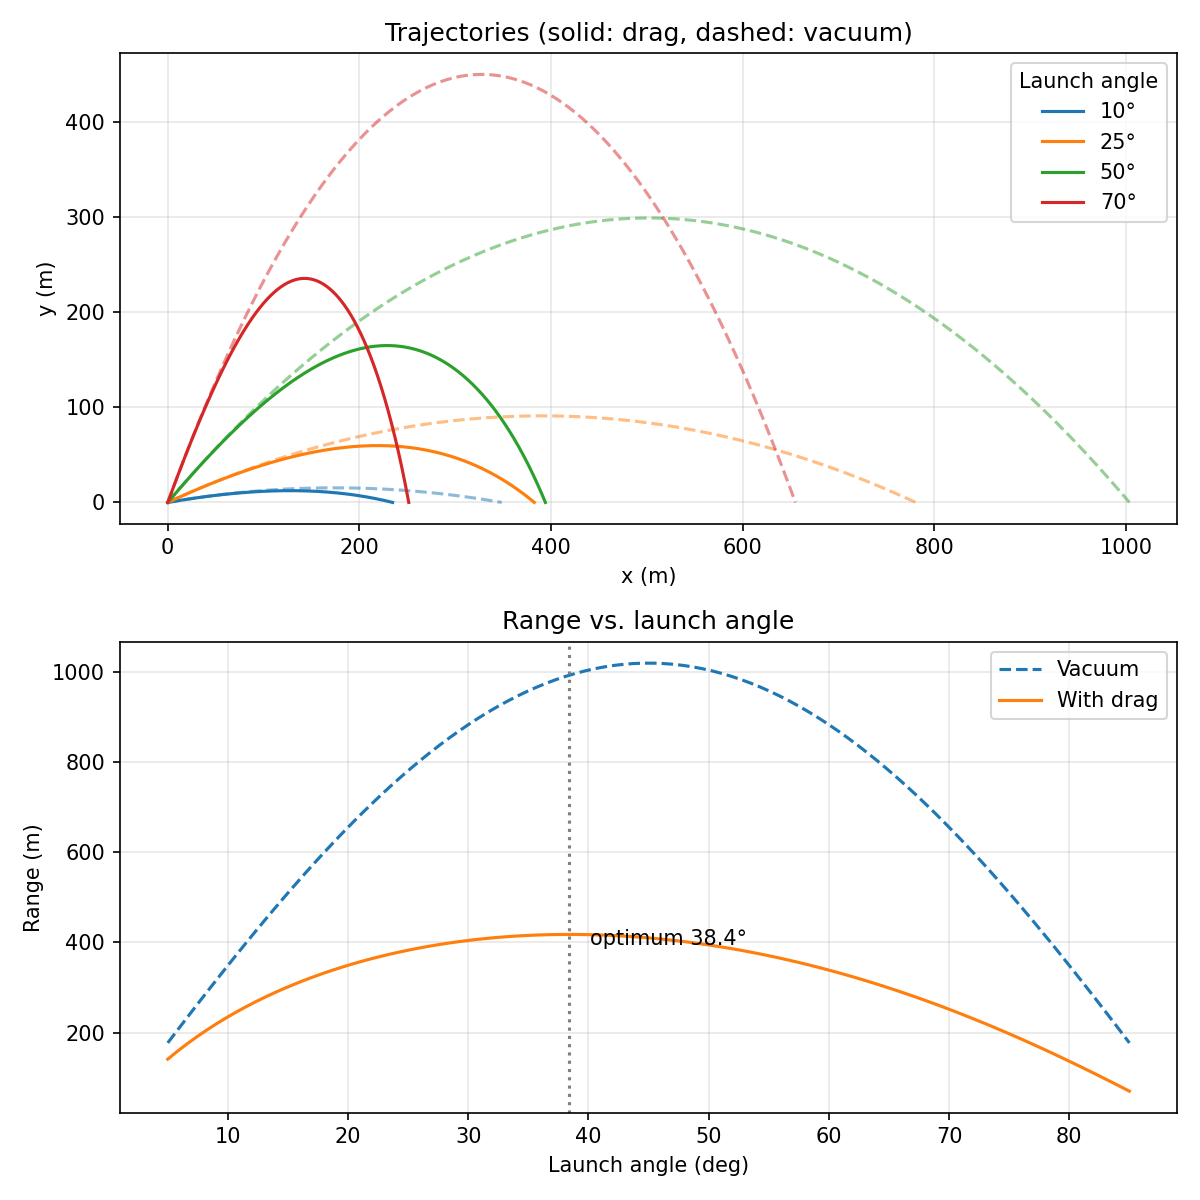
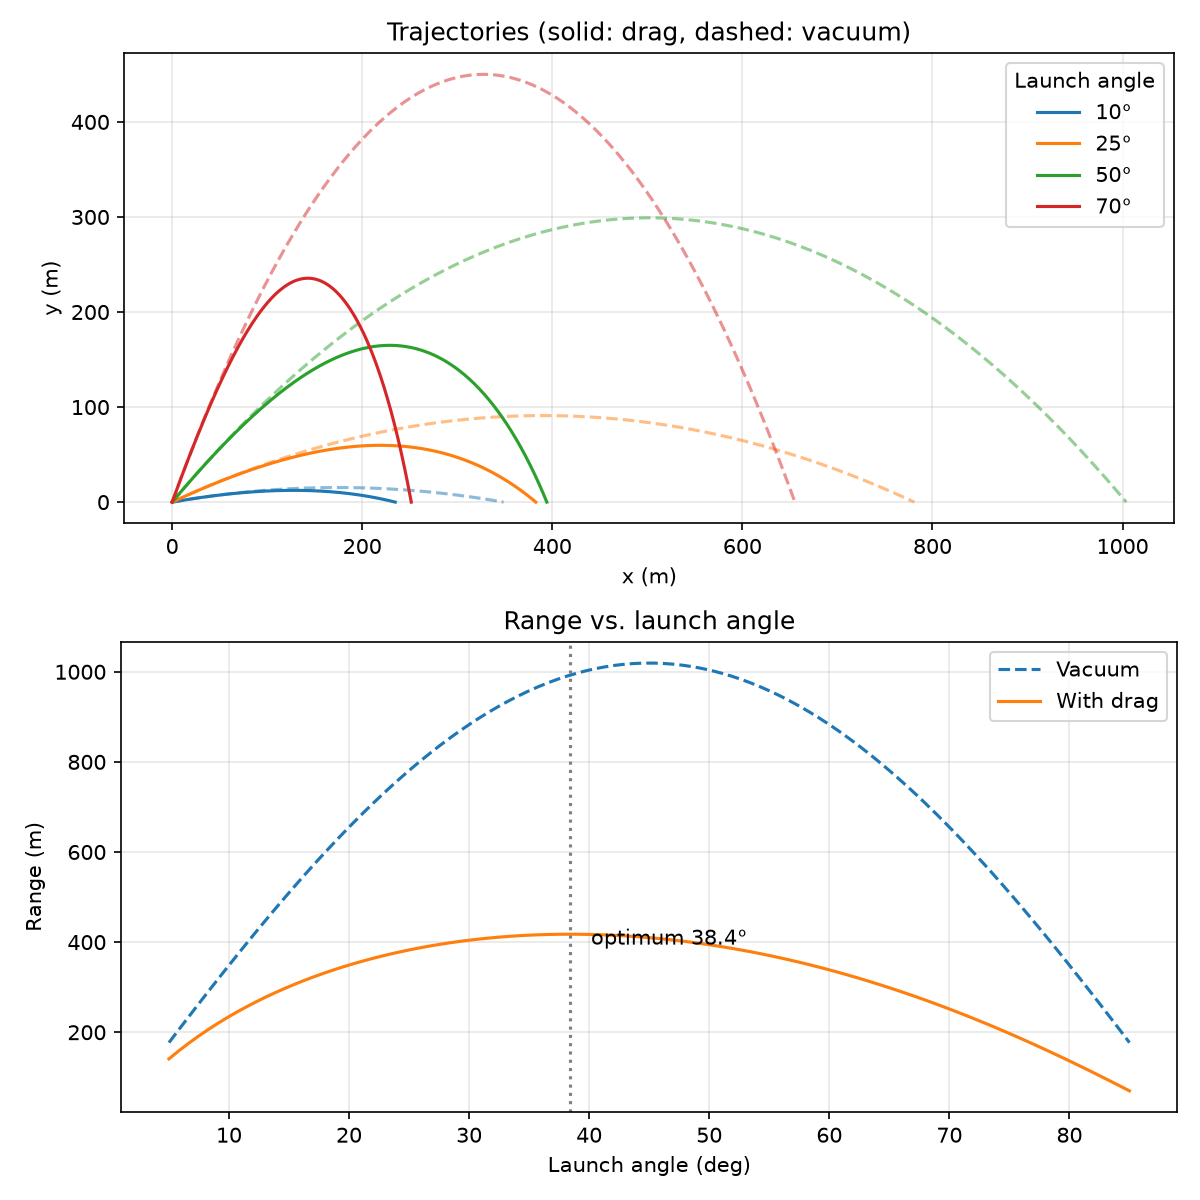
Added a 3D graph

diff --git a/3D_drone_dropper.py b/3D_drone_dropper.py
@@ -102,7 +102,7 @@ def check_crosswind_sign():
     if cross_range_pos <= 0:
         raise ValueError(f"+5 m/s crosswind gave crossrange {cross_range_pos:.3e} m, expected > 0")
     elif cross_range_neg >= 0:
-        raise ValueError(f"-5 m/s crosswind gave crossrange {cross_range_pos:.3e} m, expected < 0")
+        raise ValueError(f"-5 m/s crosswind gave crossrange {cross_range_neg:.3e} m, expected < 0")
     elif not np.isclose(total, 0, atol = 1e-9):
         raise ValueError(f"Mirror check FAILED: +5 gave {cross_range_pos:.6e} m, -5 gave {cross_range_neg:.6e} m, sum {total:.3e} m")
     
@@ -118,7 +118,7 @@ def ballistic_checker():
 
 #------------ Angle Optimization-----------------
 def range_at_cond(angle_deg, base: Params):
-    return solve_summarize(simulate(replace(base, angle_deg = angle_deg)))["range"]
+    return solve_summarize(simulate(replace(base, elevation_deg=angle_deg)))["range"]
 
 def angle_sweep(base: Params, angles):
     return np.array([range_at_cond(a, base) for a in angles])
@@ -132,59 +132,46 @@ def find_optimal_angle(base: Params):
         raise ValueError(f"Best angle {res.x:.2f} deg is at the edge of ({low}, {high})")
     return res.x, -res.fun
 #----------- Plotting ------------------
-def plot(traj_angles=(20, 30, 45, 60, 75)):
+def plot_3d(base=None, traj_angles=(20, 30, 45, 60, 75), show_vacuum=True, n=100):    
     check_against_vacuum()
     ballistic_checker()
     check_planar_symmetry()
     check_crosswind_sign()
 
+    if base is None:
+        base = Params(azimuth_deg=20.0, wind_z=3.0)
 
-    base = Params()
-    angles = np.linspace(5, 85, 100)
-    ranges_drag = angle_sweep(base, angles)
-    ranges_vac = base.v0**2 * np.sin(2 * np.radians(angles)) / base.g
-    best_angle, best_range = find_optimal_angle(base)
-    print(f"Optimal angle with drag: {best_angle:.1f} deg, range {best_range:.1f} m")
-    print(f"Vacuum optimum: 45.0 deg, range {vacuum_range(base):.1f} m")
+    fig = plt.figure(figsize=(9, 7))
+    ax = fig.add_subplot(projection="3d")
+    xs, ys, zs = [], [], []
 
-    fig, (ax1, ax2) = plt.subplots(2, 1, figsize = (8, 8))
-
-    #Top: for trajectories comparison b/w drag(solid) vs vacuum(dashed)
     for a in traj_angles:
-        p = replace(base, angle_deg = a )
+        p = replace(base, elevation_deg=a)
         sol = simulate(p)
-        t = np.linspace(0, sol.t[-1], 300)
-        x, y = sol.sol(t)[:2]
-        th = np.radians(a)
-        tv = np.linspace(0, 2 * p.v0 * np.sin(th) / p.g, 300)
-        line, = ax1.plot(x, y, label=f"{a}°")
-        ax1.plot(p.v0 * np.cos(th) * tv,
-                    p.v0 * np.sin(th) * tv - 0.5 * p.g * tv**2,
-                    "--", color= line.get_color(), alpha=0.5)
-    ax1.set(xlabel="x (m)", ylabel="y (m)", title="Trajectories (solid: drag, dashed: vacuum)")
-    ax1.set_aspect("equal")
-    ax1.legend(title="Launch angle")
-    ax1.grid(alpha=0.3)
-        
-    #Bottom: range vs angle
-    ax2.plot(angles, ranges_vac, "--", label="Vacuum")
-    ax2.plot(angles, ranges_drag, label="With drag")
-    ax2.axvline(best_angle, color="gray", ls=":")
-    ax2.annotate(f"optimum {best_angle:.1f}°", (best_angle, best_range),
-                         textcoords="offset points", xytext=(10, -5))
-    ax2.set(xlabel="Launch angle (deg)", ylabel="Range (m)", title="Range vs. launch angle")
-    ax2.legend()
-    ax2.grid(alpha=0.3)
-        
+        t = np.linspace(0, sol.t[-1], n)
+        x, y, z = sol.sol(t)[:3]
+
+        line, = ax.plot(x, z, y, label=f"{a}°")
+        ax.scatter(x[-1], z[-1], 0, color=line.get_color(), s=20)  # landing point
+
+        vx0, vy0, vz0 = initial_velocity(p)
+        t_vac = (vy0 + np.sqrt(vy0**2 + 2 * p.g * p.y0)) / p.g
+        tv = np.linspace(0, t_vac, n)
+        xv, zv = vx0 * tv, vz0 * tv
+        yv = p.y0 + vy0 * tv - 0.5 * p.g * tv**2
+        ax.plot(xv, zv, yv, "--", color=line.get_color(), alpha=0.5)
+
+        xs += [x, xv]; ys += [y, yv]; zs += [z, zv]
+
+    spans = [max(np.ptp(np.concatenate(v)), 1.0) for v in (xs, zs, ys)]
+    ax.set_box_aspect(spans)
+
+    ax.set(xlabel="x downrange (m)", ylabel="z crossrange (m)", zlabel="y height (m)",
+           title="3D trajectories (solid: drag + wind, dashed: vacuum)")
+    ax.legend(title="Elevation")
     fig.tight_layout()
-    fig.savefig("projectile_sweep.png", dpi=150)
+    fig.savefig("projectile_3d.png", dpi=150)
     plt.show()
         
-        
 if __name__ == "__main__":
-    check_against_vacuum()
-    print("vacuum check passed")
-    check_planar_symmetry()
-    print("planar symmetry check passed")
-    check_crosswind_sign()
-    print("crosswind sign check passed")
+        plot_3d()

diff --git a/README.md b/README.md
@@ -1,3 +1,4 @@
 ![Trajectories and range vs. launch angle](Projects/projectile_sweep.png)
 Predicts the ballistic trajectory of objects launched into the air, with and without drag. Change the parameters for desired object, and then play the terminal. Current Assumptions: constant wind, quadratic drag, and exponential air density. The altitude doesn't change much, need a very drastic climb for rho to significantly be effected. Has checks written for bounded angle, and if wind direction is incorrect
 For 3D, added a check for planar symmetry and crosswind signs
+Added a 3D graph
